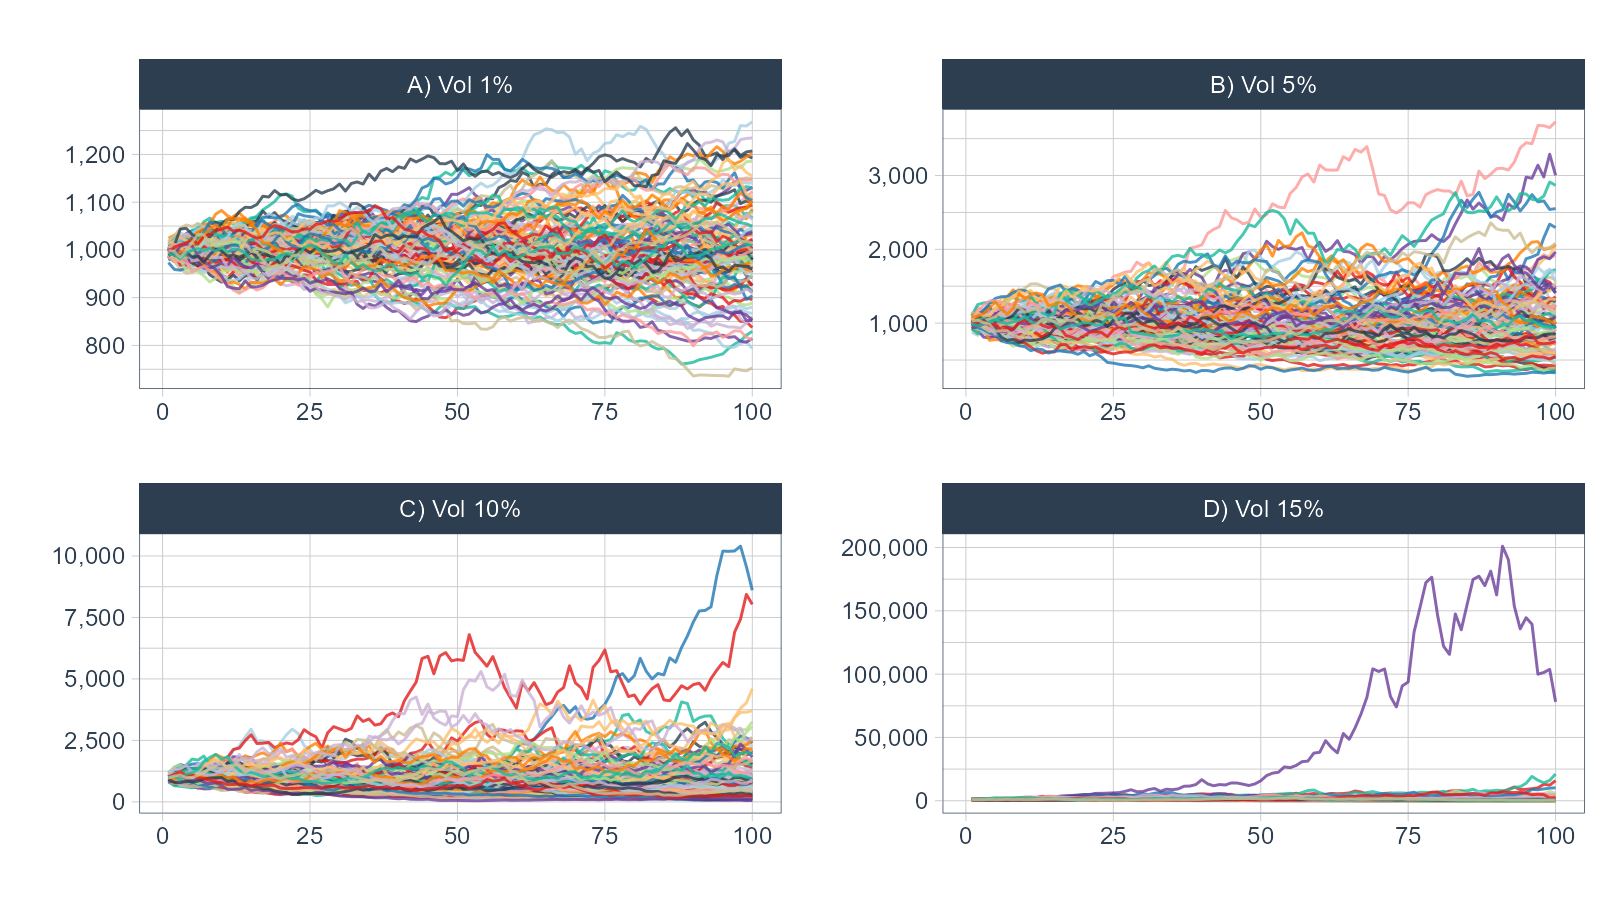
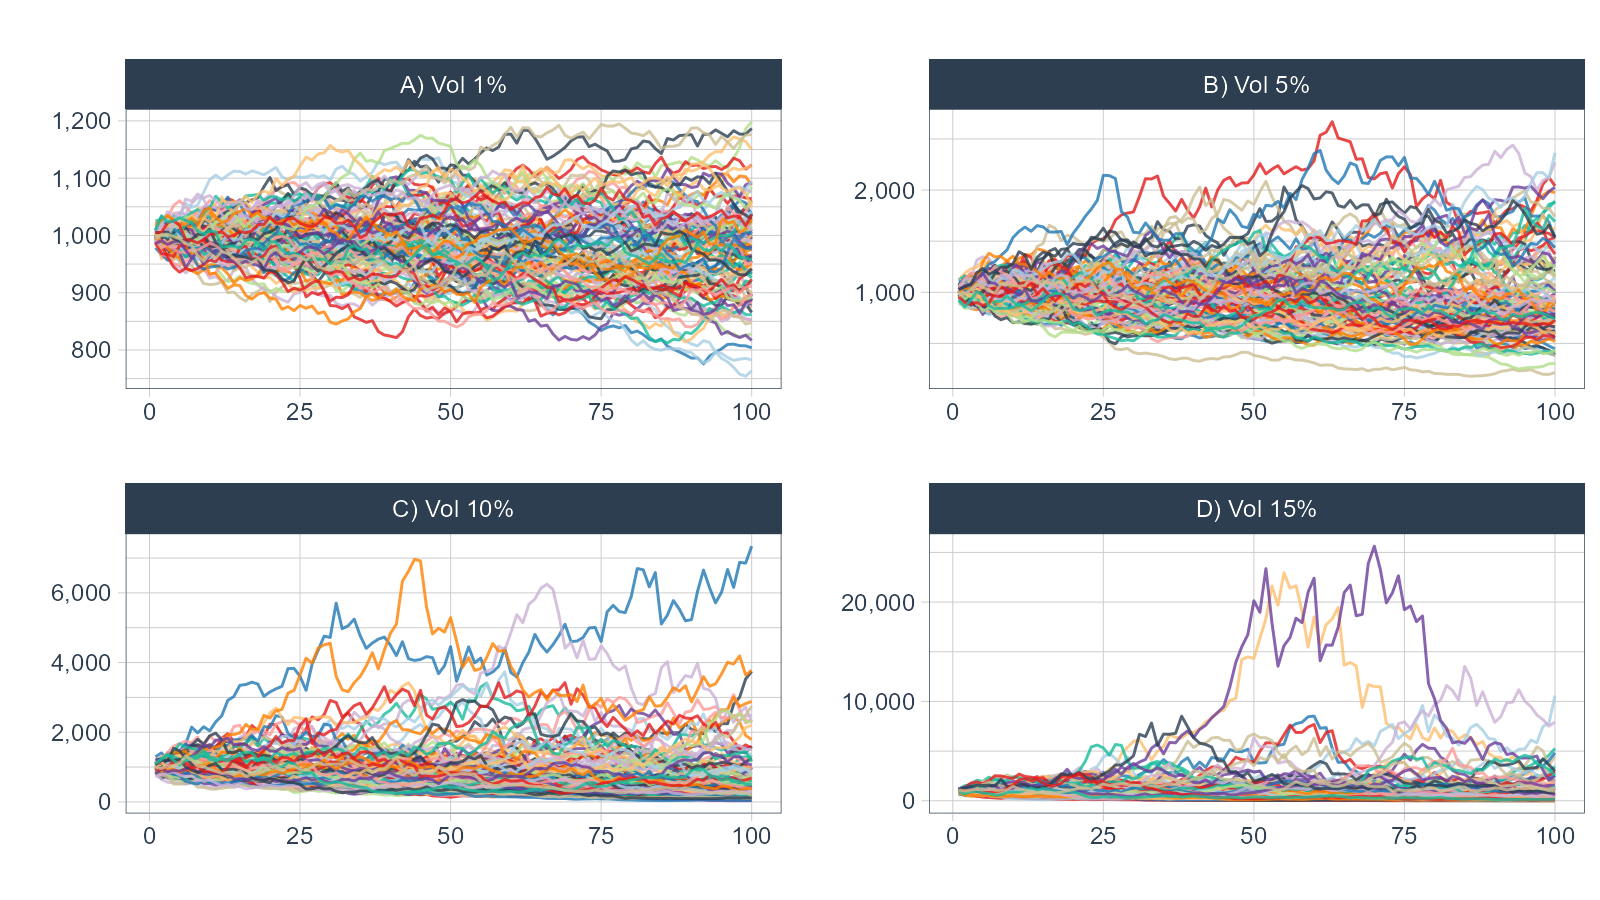
re-build site

diff --git a/docs/articles/getting-started.html b/docs/articles/getting-started.html
@@ -93,7 +93,7 @@
             <h3 class="subtitle">A Quick Introduction</h3>
                         <h4 class="author">Steven P. Sanderson II, MPH</h4>
             
-            <h4 class="date">2021-03-04</h4>
+            <h4 class="date">2021-03-16</h4>
       
       <small class="dont-index">Source: <a href="https://github.com/spsanderson/healthyR.ts/blob/master/vignettes/getting-started.Rmd"><code>vignettes/getting-started.Rmd</code></a></small>
       <div class="hidden name"><code>getting-started.Rmd</code></div>
@@ -114,19 +114,19 @@
 <span class="co">#&gt; # A tibble: 6 x 4</span>
 <span class="co">#&gt;     run     x        y cum_y</span>
 <span class="co">#&gt;   &lt;dbl&gt; &lt;dbl&gt;    &lt;dbl&gt; &lt;dbl&gt;</span>
-<span class="co">#&gt; 1     1     1 -0.0990   901.</span>
-<span class="co">#&gt; 2     1     2  0.0654   960.</span>
-<span class="co">#&gt; 3     1     3 -0.0358   925.</span>
-<span class="co">#&gt; 4     1     4  0.0629   984.</span>
-<span class="co">#&gt; 5     1     5  0.0120   995.</span>
-<span class="co">#&gt; 6     1     6  0.00353  999.</span>
+<span class="co">#&gt; 1     1     1 -0.0786   921.</span>
+<span class="co">#&gt; 2     1     2  0.00831  929.</span>
+<span class="co">#&gt; 3     1     3 -0.0388   893.</span>
+<span class="co">#&gt; 4     1     4  0.0725   958.</span>
+<span class="co">#&gt; 5     1     5  0.0752  1030.</span>
+<span class="co">#&gt; 6     1     6  0.0571  1088.</span>
 <span class="fu"><a href="https://pillar.r-lib.org/reference/glimpse.html">glimpse</a></span><span class="op">(</span><span class="va">df</span><span class="op">)</span>
 <span class="co">#&gt; Rows: 10,000</span>
 <span class="co">#&gt; Columns: 4</span>
 <span class="co">#&gt; $ run   &lt;dbl&gt; 1, 1, 1, 1, 1, 1, 1, 1, 1, 1, 1, 1, 1, 1, 1, 1, 1, 1, 1, 1, 1, 1~</span>
 <span class="co">#&gt; $ x     &lt;dbl&gt; 1, 2, 3, 4, 5, 6, 7, 8, 9, 10, 11, 12, 13, 14, 15, 16, 17, 18, 1~</span>
-<span class="co">#&gt; $ y     &lt;dbl&gt; -0.0989916400, 0.0653653456, -0.0358410152, 0.0628661805, 0.0119~</span>
-<span class="co">#&gt; $ cum_y &lt;dbl&gt; 901.0084, 959.9031, 925.4992, 983.6818, 995.4723, 998.9884, 922.~</span></code></pre></div>
+<span class="co">#&gt; $ y     &lt;dbl&gt; -0.078602613, 0.008314127, -0.038826586, 0.072513155, 0.07518712~</span>
+<span class="co">#&gt; $ cum_y &lt;dbl&gt; 921.3974, 929.0580, 892.9859, 957.7391, 1029.7487, 1088.4986, 82~</span></code></pre></div>
 <p>Now that the data has been generated, lets take a look at it.</p>
 <div class="sourceCode" id="cb3"><pre class="downlit sourceCode r">
 <code class="sourceCode R"><span class="va">df</span> <span class="op">%&gt;%</span>

diff --git a/docs/reference/ts_compare_data.html b/docs/reference/ts_compare_data.html
@@ -210,7 +210,7 @@ column.</p></li>
     <h2 class="hasAnchor" id="examples"><a class="anchor" href="#examples"></a>Examples</h2>
     <pre class="examples"><div class='input'><span class='fu'><a href='https://rdrr.io/r/base/message.html'>suppressPackageStartupMessages</a></span><span class='op'>(</span><span class='kw'><a href='https://rdrr.io/r/base/library.html'>library</a></span><span class='op'>(</span><span class='va'><a href='https://github.com/spsanderson/healthyR.data'>healthyR.data</a></span><span class='op'>)</span><span class='op'>)</span>
 <span class='fu'><a href='https://rdrr.io/r/base/message.html'>suppressPackageStartupMessages</a></span><span class='op'>(</span><span class='kw'><a href='https://rdrr.io/r/base/library.html'>library</a></span><span class='op'>(</span><span class='va'><a href='https://dplyr.tidyverse.org'>dplyr</a></span><span class='op'>)</span><span class='op'>)</span>
-<span class='fu'><a href='https://rdrr.io/r/base/message.html'>suppressPackageStartupMessages</a></span><span class='op'>(</span><span class='kw'><a href='https://rdrr.io/r/base/library.html'>library</a></span><span class='op'>(</span><span class='va'><a href='https://github.com/business-science/timetk'>timetk</a></span><span class='op'>)</span><span class='op'>)</span>
+</div><div class='output co'>#&gt; <span class='warning'>Warning: package 'dplyr' was built under R version 4.0.4</span></div><div class='input'><span class='fu'><a href='https://rdrr.io/r/base/message.html'>suppressPackageStartupMessages</a></span><span class='op'>(</span><span class='kw'><a href='https://rdrr.io/r/base/library.html'>library</a></span><span class='op'>(</span><span class='va'><a href='https://github.com/business-science/timetk'>timetk</a></span><span class='op'>)</span><span class='op'>)</span>
 <span class='fu'>ts_compare_data</span><span class='op'>(</span>
   .data           <span class='op'>=</span> <span class='va'>healthyR_data</span>
   , .date_col     <span class='op'>=</span> <span class='va'>visit_start_date_time</span>
